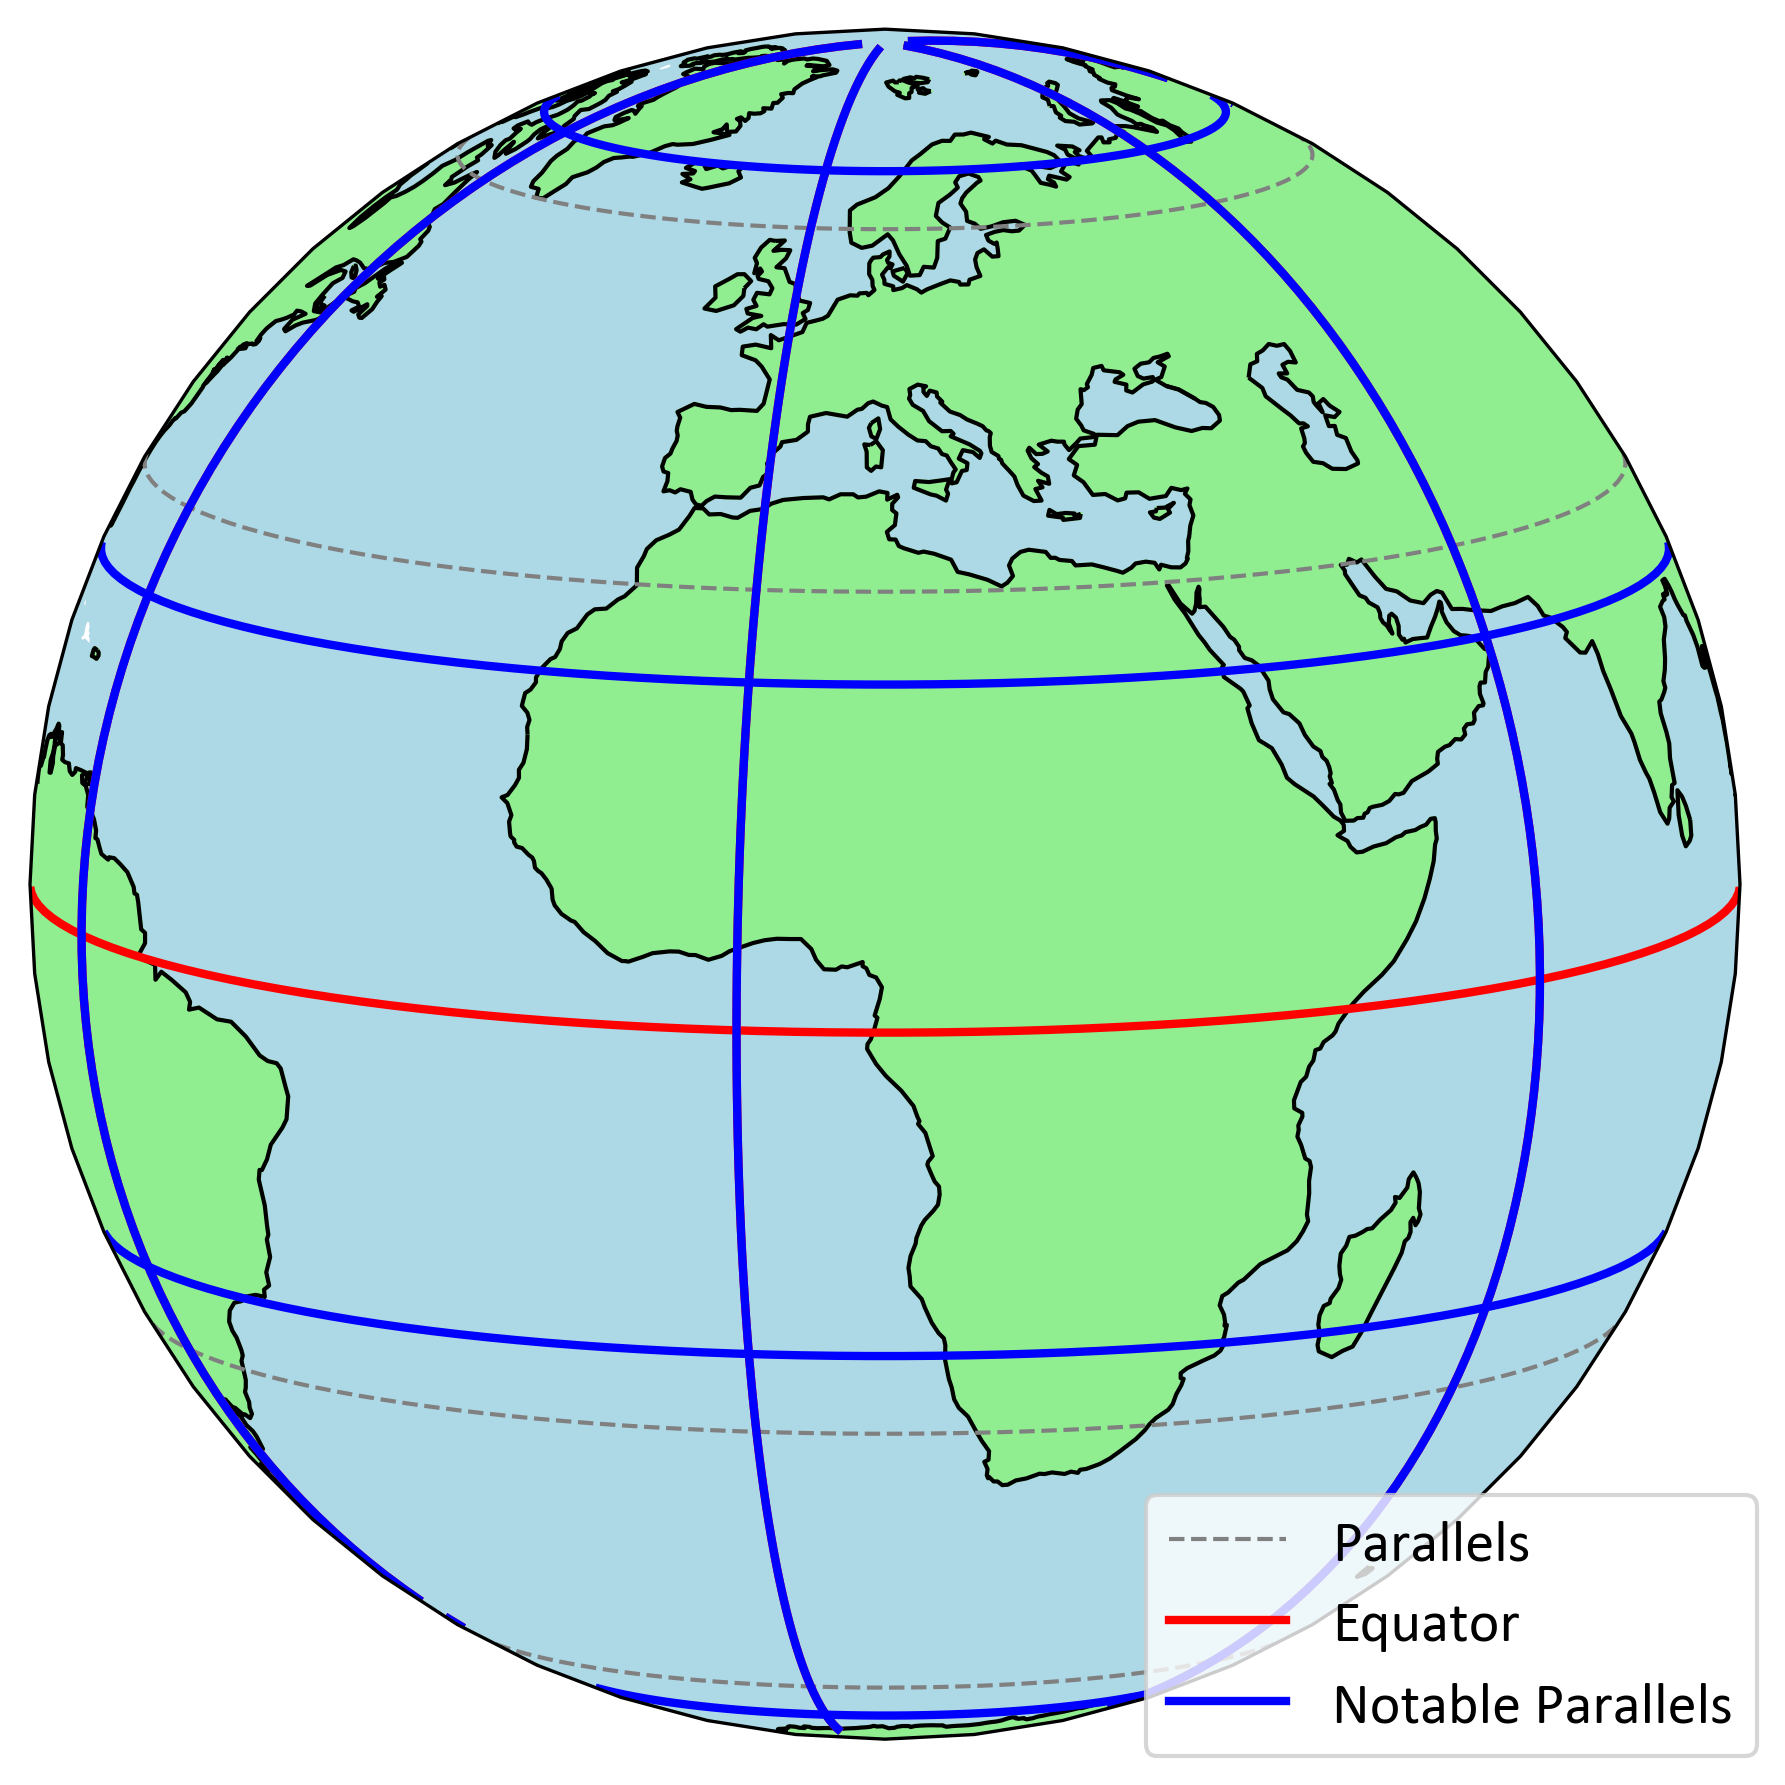
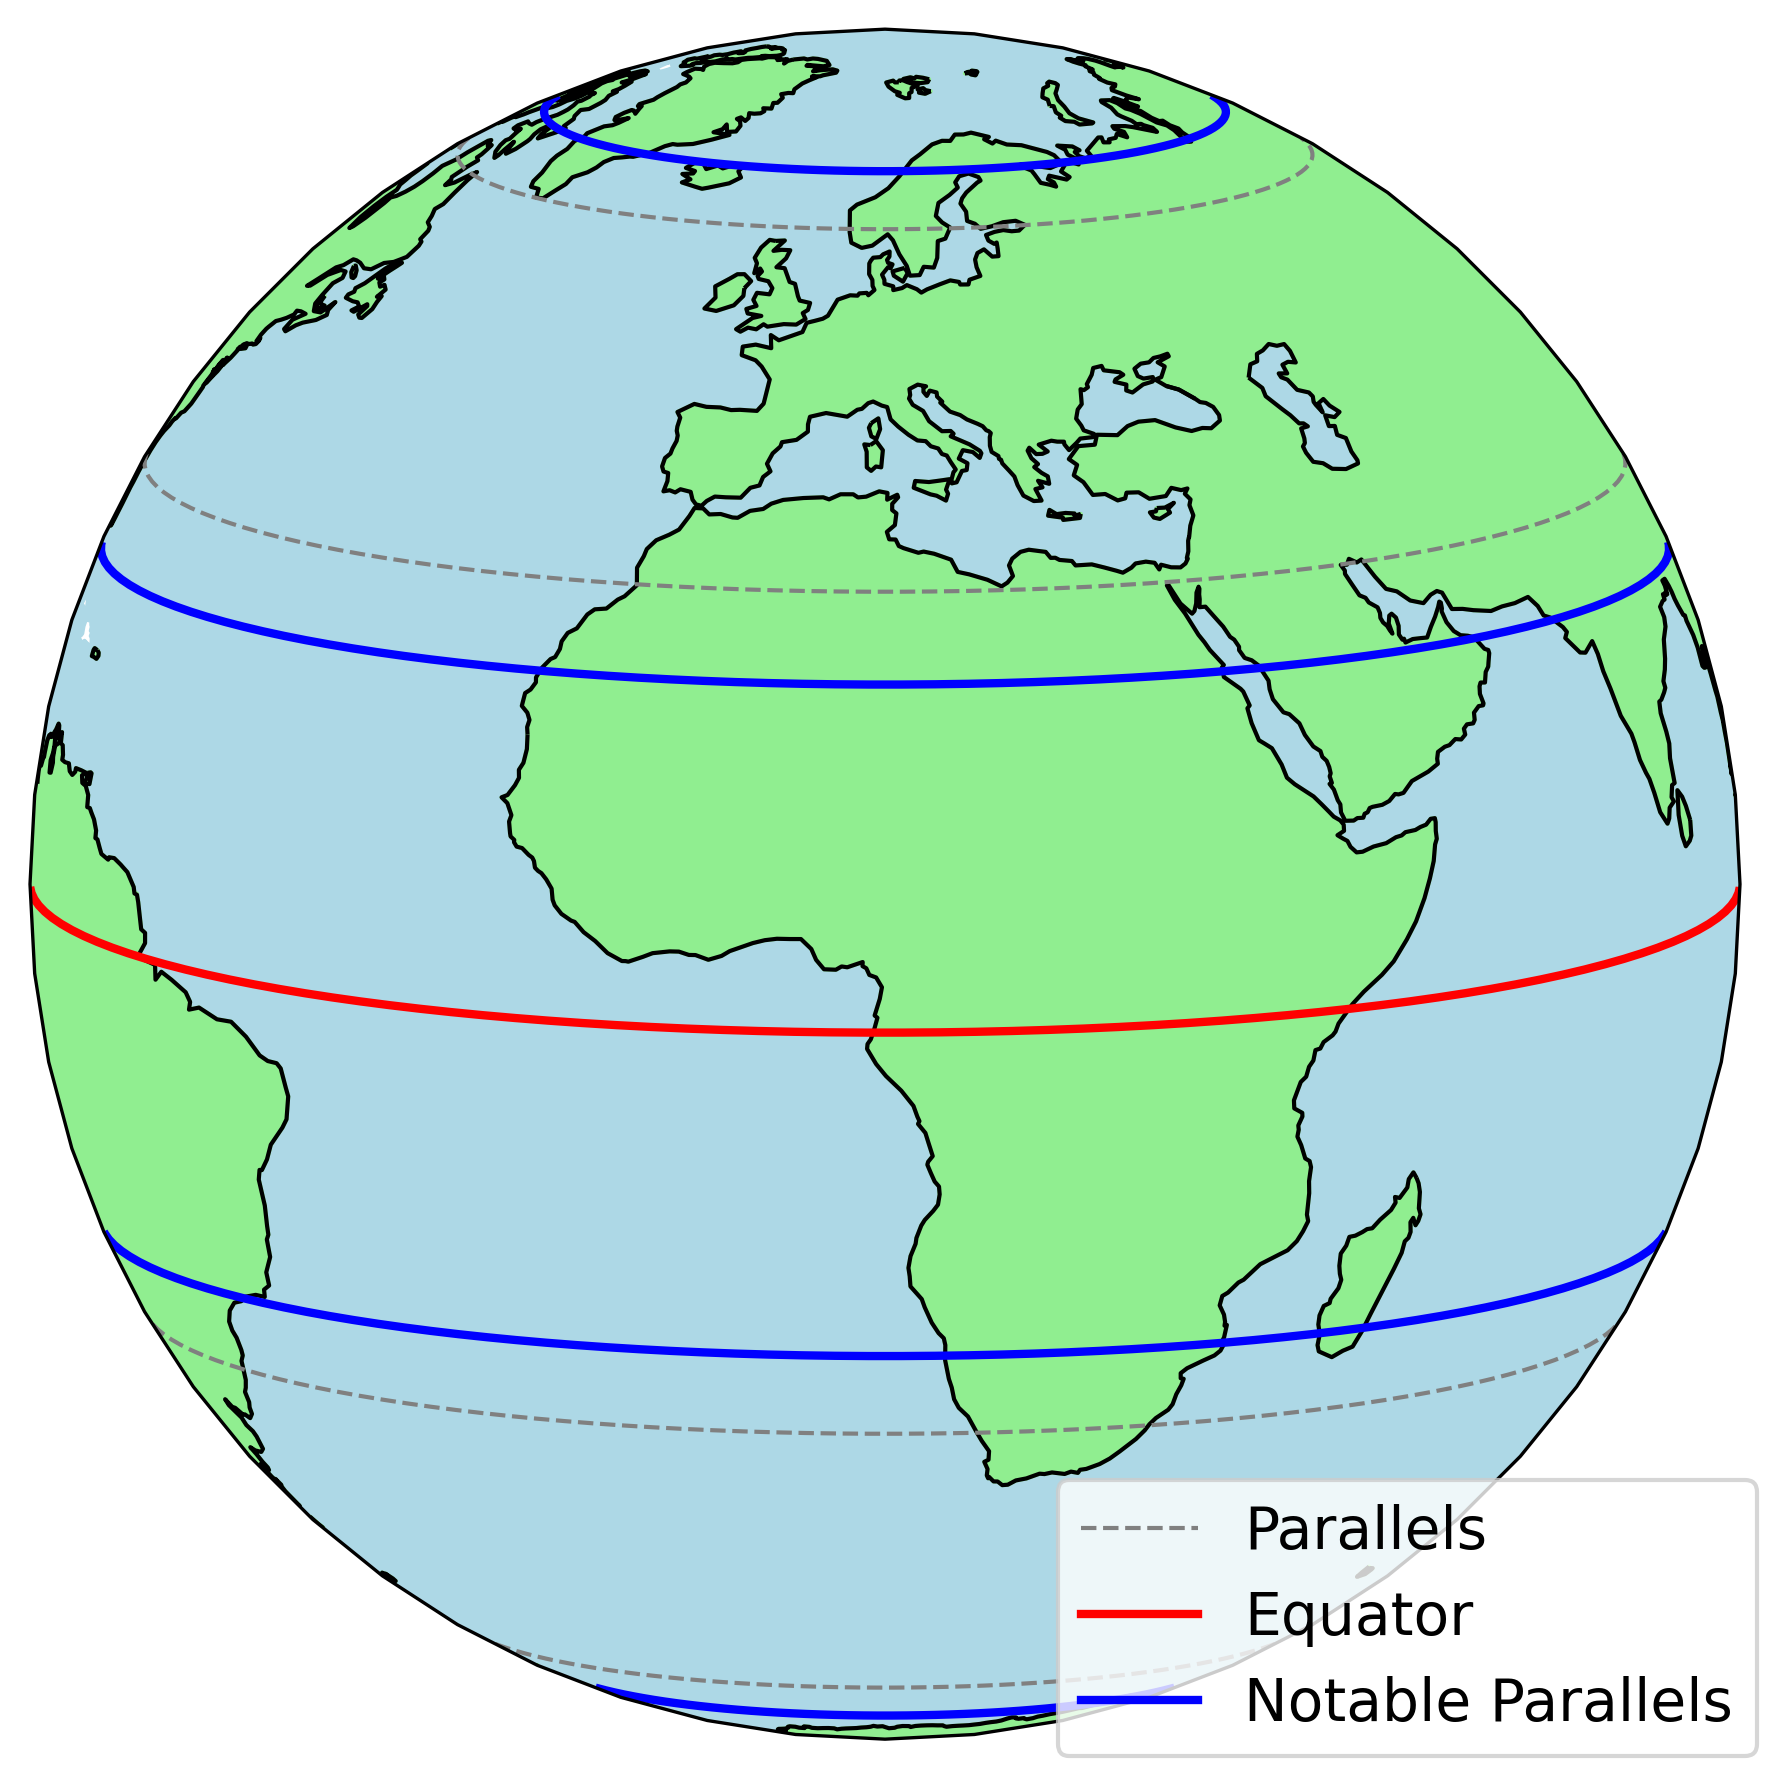
revised

diff --git a/_notes/Introduction_to_Geospatial_Data_Analytics/chapter_02/ENGG461_C02S02.html b/_notes/Introduction_to_Geospatial_Data_Analytics/chapter_02/ENGG461_C02S02.html
@@ -395,12 +395,12 @@ document.write(`
 <ul class="simple">
 <li><p>Located at 0° longitude, passing through Greenwich, England (shown as the red line in <a class="reference internal" href="#d-map-meridians"><span class="std std-numref">Fig. 2.5</span></a>).</p></li>
 <li><p>Serves as the reference point for measuring longitude east and west.</p></li>
-<li><p>The 180° meridian, opposite the Prime Meridian, is known as the International Date Line (shown as the blue line in <a class="reference internal" href="#d-map-meridians"><span class="std std-numref">Fig. 2.5</span></a>).</p></li>
 </ul>
+  <!-- - The 180° meridian, opposite the Prime Meridian, is known as the International Date Line (shown as the blue line in {numref}`3d_map_meridians`). -->
 <figure class="align-center" id="d-map-meridians">
 <a class="reference internal image-reference" href="../_images/3d_map_meridians.png"><img alt="../_images/3d_map_meridians.png" src="../_images/3d_map_meridians.png" style="width: 500px;" /></a>
 <figcaption>
-<p><span class="caption-number">Fig. 2.5 </span><span class="caption-text">Meridians, Prime Meridian, and International Date Line.</span><a class="headerlink" href="#d-map-meridians" title="Link to this image">#</a></p>
+<p><span class="caption-number">Fig. 2.5 </span><span class="caption-text">Meridians and Prime Meridian.</span><a class="headerlink" href="#d-map-meridians" title="Link to this image">#</a></p>
 </figcaption>
 </figure>
 </li>
@@ -490,8 +490,8 @@ document.write(`
 <li><p><strong>Seconds (“)</strong>: Each minute is further divided into 60 seconds.</p></li>
 </ul>
 <p>The relationship can be summarized as:</p>
-<div class="amsmath math notranslate nohighlight" id="equation-b9f100ed-b634-42f7-bc1f-63bd645c06e7">
-<span class="eqno">(2.1)<a class="headerlink" href="#equation-b9f100ed-b634-42f7-bc1f-63bd645c06e7" title="Permalink to this equation">#</a></span>\[\begin{equation}1° = 60' = 3600''\end{equation}\]</div>
+<div class="amsmath math notranslate nohighlight" id="equation-6f85f8cb-5a1a-4761-bf50-55e4a753eda9">
+<span class="eqno">(2.1)<a class="headerlink" href="#equation-6f85f8cb-5a1a-4761-bf50-55e4a753eda9" title="Permalink to this equation">#</a></span>\[\begin{equation}1° = 60' = 3600''\end{equation}\]</div>
 <p><strong>Common Formats:</strong></p>
 <ol class="arabic simple">
 <li><p><strong>DMS Format</strong>: Expressed as degrees, minutes, and seconds (DD° MM’ SS.S”).</p></li>
@@ -501,8 +501,8 @@ document.write(`
 <p><strong>Conversion Between Formats:</strong></p>
 <ol class="arabic">
 <li><p><strong>To Convert DMS to Decimal Degrees (DD):</strong></p>
-<div class="amsmath math notranslate nohighlight" id="equation-101d0b53-4d36-48ca-a092-56535a785428">
-<span class="eqno">(2.2)<a class="headerlink" href="#equation-101d0b53-4d36-48ca-a092-56535a785428" title="Permalink to this equation">#</a></span>\[\begin{equation}
+<div class="amsmath math notranslate nohighlight" id="equation-bb2b22db-228c-4b5e-a22c-379242c8e309">
+<span class="eqno">(2.2)<a class="headerlink" href="#equation-bb2b22db-228c-4b5e-a22c-379242c8e309" title="Permalink to this equation">#</a></span>\[\begin{equation}
    \text{DD} = \text{Degrees} + \left(\dfrac{\text{Minutes}}{60}\right) + \left(\dfrac{\text{Seconds}}{3600}\right)
    \end{equation}\]</div>
 <p><font color='Blue'><b>Example:</b></font> Given: 51° 2’ 40.92”</p>
@@ -515,14 +515,14 @@ document.write(`
 <ul>
 <li><p><strong>Step 1</strong>: The whole number part is the degrees.</p></li>
 <li><p><strong>Step 2</strong>: Multiply the decimal part by 60 to get minutes:</p>
-<div class="amsmath math notranslate nohighlight" id="equation-f09ed6bb-1e34-45f6-9382-5840e0824898">
-<span class="eqno">(2.3)<a class="headerlink" href="#equation-f09ed6bb-1e34-45f6-9382-5840e0824898" title="Permalink to this equation">#</a></span>\[\begin{equation}
+<div class="amsmath math notranslate nohighlight" id="equation-b98f93ab-d141-4aec-bb08-b1a76319b228">
+<span class="eqno">(2.3)<a class="headerlink" href="#equation-b98f93ab-d141-4aec-bb08-b1a76319b228" title="Permalink to this equation">#</a></span>\[\begin{equation}
      \text{Minutes} = (\text{DD} - \text{Degrees}) \times 60
      \end{equation}\]</div>
 </li>
 <li><p><strong>Step 3</strong>: Multiply the remaining decimal part by 60 to get seconds:</p>
-<div class="amsmath math notranslate nohighlight" id="equation-ac268968-7234-4466-89f8-b07075419349">
-<span class="eqno">(2.4)<a class="headerlink" href="#equation-ac268968-7234-4466-89f8-b07075419349" title="Permalink to this equation">#</a></span>\[\begin{equation}
+<div class="amsmath math notranslate nohighlight" id="equation-f60be27d-ff91-4964-9624-4d1ef16c83c0">
+<span class="eqno">(2.4)<a class="headerlink" href="#equation-f60be27d-ff91-4964-9624-4d1ef16c83c0" title="Permalink to this equation">#</a></span>\[\begin{equation}
      \text{Seconds} = (\text{Remaining Decimal}) \times 60
      \end{equation}\]</div>
 </li>
@@ -546,8 +546,8 @@ document.write(`
 <ul>
 <li><p><strong>Step 1</strong>: The whole number part is the degrees.</p></li>
 <li><p><strong>Step 2</strong>: Multiply the decimal part by 60 to get decimal minutes:</p>
-<div class="amsmath math notranslate nohighlight" id="equation-9108bb03-84ad-4f91-92bf-477c3f6df35d">
-<span class="eqno">(2.5)<a class="headerlink" href="#equation-9108bb03-84ad-4f91-92bf-477c3f6df35d" title="Permalink to this equation">#</a></span>\[\begin{equation}
+<div class="amsmath math notranslate nohighlight" id="equation-fec40ec4-83e7-47c6-8e0d-e2db877463df">
+<span class="eqno">(2.5)<a class="headerlink" href="#equation-fec40ec4-83e7-47c6-8e0d-e2db877463df" title="Permalink to this equation">#</a></span>\[\begin{equation}
      \text{Decimal Minutes} = (\text{DD} - \text{Degrees}) \times 60
      \end{equation}\]</div>
 </li>
